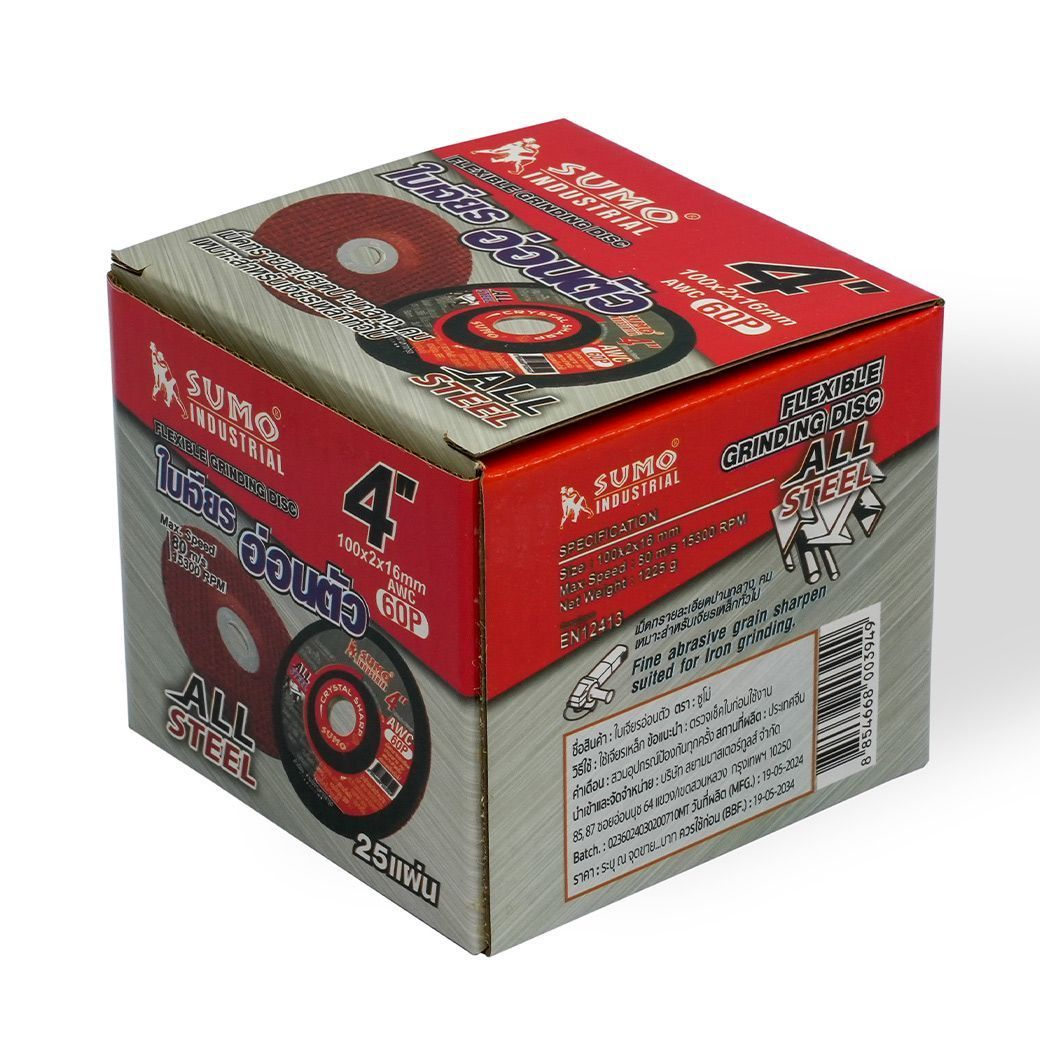
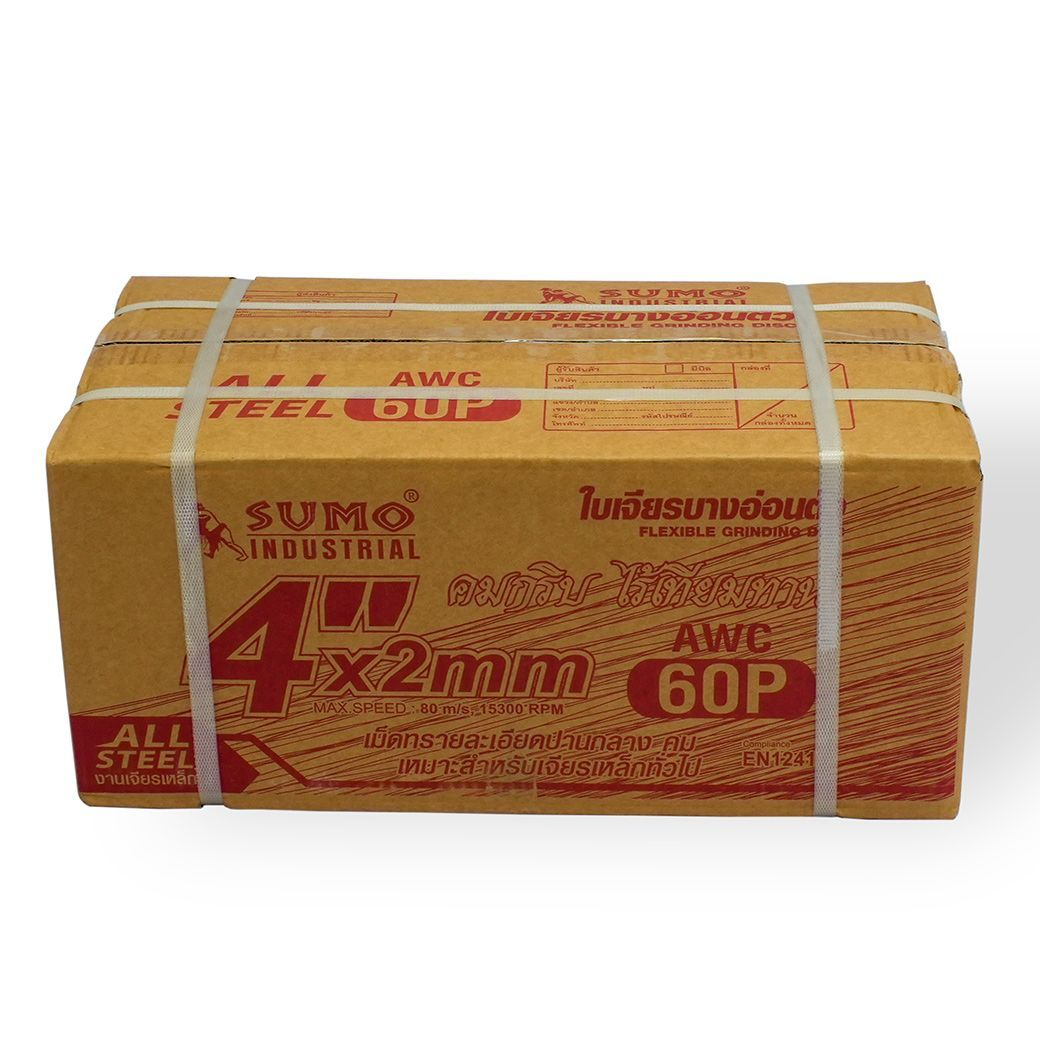
Add checkout functionality and improve cart management
Integrates a checkout process into the shopping cart by adding a checkout function to the useCart hook, which handles empty cart validation and success notifications. Also updates product image imports and references within products.ts and refactors the CartSidebar component to utilize the new checkout functionality.

Replit-Commit-Author: Agent
Replit-Commit-Session-Id: cb5e5b6e-ccb7-4158-9988-082292ac07f4
Replit-Commit-Checkpoint-Type: full_checkpoint
Replit-Commit-Screenshot-Url: https://storage.googleapis.com/screenshot-production-us-central1/c8b55904-69a6-4e6c-8dea-dea76a31d220/cb5e5b6e-ccb7-4158-9988-082292ac07f4/DhasT2W

diff --git a/client/src/data/products.ts b/client/src/data/products.ts
@@ -1,22 +1,28 @@
 // Import generated product images
 // ใบเจียรเหล็ก 4" (100x2mm) AWC60P สีแดง SUMO
-import polishingBladeImg11 from '@/assets/polishBlade11.jpg';
-import polishingBladeImg12 from '@/assets/polishBlade12.jpg';
-import polishingBladeImg13 from '@/assets/polishBlade13.jpg';
-import polishingBladeImg14 from '@/assets/polishBlade14.jpg';
-import polishingBladeImg15 from '@/assets/polishBlade15.jpg';
-import polishingBladeImg16 from '@/assets/polishBlade16.jpg';
-import polishingBladeImg17 from '@/assets/polishBlade17.jpg';
-import polishingBladeImg18 from '@/assets/polishBlade18.jpg';
-import polishingBladeImg19 from '@/assets/polishBlade19.jpg';
-import polishingBladeImg110 from '@/assets/polishBlade110.jpg';
-import polishingBladeImg111 from '@/assets/polishBlade111.jpg';
-import polishingBladeImg112 from '@/assets/polishBlade112.jpg';
-import polishingBladeImg113 from '@/assets/polishBlade113.jpg';
-import polishingBladeImg114 from '@/assets/polishBlade114.jpg';
+import polishingBlade11back from '@/assets/polishBlade11.jpg';
+import polishingBlade12front from '@/assets/polishBlade12.jpg';
+import polishingBlade13box from '@/assets/polishBlade13.jpg';
+import polishingBlade14parcel from '@/assets/polishBlade14.jpg';
 
 // ใบเจียร 4” (100x2.0mm) Ceragrain60P SUMO สีเขียว
-import polishingBladeImg21 from '@/assets/cutting-blade.jpg';
+import polishingBlade21front from '@/assets/polishBlade21.jpg';
+import polishingBlade22back from '@/assets/polishBlade22.jpg';
+import polishingBlade23box from '@/assets/polishBlade23.jpg';
+import polishingBlade24parcel from '@/assets/polishBlade24.jpg';
+
+// ใบเจียร 4” (100x4mm) หนา SUMO สีแดง
+import polishingBlade31front from '@/assets/polishBlade31.jpg';
+import polishingBlade32back from '@/assets/polishBlade32.jpg';
+import polishingBlade33box from '@/assets/polishBlade33.jpg';
+import polishingBlade34parcel from '@/assets/polishBlade34.jpg';
+
+// ใบเจียร 4” (100x4mm) หนา SUMO สีเขียว
+import polishingBlade41front from '@/assets/polishBlade41.jpg';
+import polishingBlade42back from '@/assets/polishBlade42.jpg';
+import polishingBlade43box from '@/assets/polishBlade43.jpg';
+import polishingBlade44parcel from '@/assets/polishBlade44.jpg';
+
 import weldingTorchImg from '@/assets/welding-torch.jpg';
 import safetyHelmetImg from '@/assets/safety-helmet.jpg';
 import metalCutterImg from '@/assets/metal-cutter.jpg';
@@ -69,21 +75,12 @@ export const products: Product[] = [
     id: "1",
     name: 'ใบเจียรเหล็ก 4" (100x2mm) AWC60P สีแดง SUMO',
     price: 15,
-    image: polishingBladeImg11,
+    image: polishingBlade12front,
     images: [
-      polishingBladeImg11,
-      polishingBladeImg12,
-      polishingBladeImg13,
-      polishingBladeImg14,
-      polishingBladeImg15,
-      polishingBladeImg16,
-      polishingBladeImg17,
-      polishingBladeImg18,
-      polishingBladeImg19,
-      polishingBladeImg110,
-      polishingBladeImg111,
-      polishingBladeImg112,
-      polishingBladeImg113
+      polishingBlade12front,
+      polishingBlade11back,
+      polishingBlade13box,
+      polishingBlade14parcel,
     ],
     category: "งานตัดและเจียร",
     subcategory: "งานเจียร",
@@ -93,30 +90,48 @@ export const products: Product[] = [
     id: "2",
     name: "ใบเจียร 4” (100x2.0mm) Ceragrain60P SUMO สีเขียว",
     price: 16,
-    image: polishingBladeImg21,
+    image: polishingBlade21front,
+    images: [
+      polishingBlade21front,
+      polishingBlade22back,
+      polishingBlade23box,
+      polishingBlade24parcel
+    ],
     category: "งานตัดและเจียร",
-    subcategory: "งานขัด",
+    subcategory: "งานเจียร",
     description: "ใบขัดแม่นยำสำหรับงานขัดละเอียด"
   },
-  /* {
+  {
     id: "3",
-    name: "ใบขัดผิวหนักหน่วง",
-    price: 1100,
-    image: cuttingBladeImg,
-    category: "งานตัดและขัด",
-    subcategory: "งานขัดผิว",
+    name: "ใบเจียร 4” (100x4mm) หนา SUMO สีแดง",
+    price: 14,
+    image: polishingBlade31front,
+    images: [
+      polishingBlade31front,
+      polishingBlade32back,
+      polishingBlade33box,
+      polishingBlade34parcel
+    ],
+    category: "งานตัดและเจียร",
+    subcategory: "งานเจียร",
     description: "ใบขัดผิวทนทานสำหรับงานหนัก"
   },
   {
     id: "4",
-    name: "ใบตัดเพชร",
-    price: 2800,
-    image: diamondBladeImg,
-    category: "งานตัดและขัด",
-    subcategory: "งานตัด",
+    name: "ใบเจียร 4” (100x4mm) หนา SUMO สีเขียว",
+    price: 14,
+    image: polishingBlade41front,
+    images: [
+      polishingBlade41front,
+      polishingBlade42back,
+      polishingBlade43box,
+      polishingBlade44parcel
+    ],
+    category: "งานตัดและเจียร",
+    subcategory: "งานเจียร",
     description: "ใบตัดเพชรพรีเมียมคุณภาพสูง"
   },
-  {
+  /* {
     id: "5",
     name: "ชุดแปรงลวดเหล็ก",
     price: 450,

diff --git a/client/src/hooks/useCart.ts b/client/src/hooks/useCart.ts
@@ -1,5 +1,6 @@
 import { useState, useEffect } from 'react';
 import { CartItem, Product } from '@/data/products';
+import { toast } from '@/hooks/use-toast';
 
 const CART_STORAGE_KEY = 'power-tools-cart';
 
@@ -70,6 +71,25 @@ export const useCart = () => {
     return cartItems.reduce((count, item) => count + item.quantity, 0);
   };
 
+  const checkout = () => {
+    if (cartItems.length === 0) {
+      toast({
+        title: "ตะกร้าสินค้าว่างเปล่า",
+        description: "กรุณาเลือกสินค้าก่อนดำเนินการชำระเงิน",
+        variant: "destructive"
+      });
+      return false;
+    }
+
+    toast({
+      title: "ชำระเงินสำเร็จ",
+      description: "ขอบคุณสำหรับการสั่งซื้อ! เราจะดำเนินการจัดส่งให้คุณ"
+    });
+    
+    clearCart();
+    return true;
+  };
+
   return {
     cartItems,
     addToCart,
@@ -77,6 +97,7 @@ export const useCart = () => {
     updateQuantity,
     clearCart,
     getCartTotal,
-    getCartItemsCount
+    getCartItemsCount,
+    checkout
   };
 };

diff --git a/client/src/components/CartSidebar.tsx b/client/src/components/CartSidebar.tsx
@@ -11,13 +11,16 @@ interface CartSidebarProps {
 }
 
 export const CartSidebar = ({ isOpen, onClose, onCheckout }: CartSidebarProps) => {
-  const { cartItems, updateQuantity, removeFromCart, getCartTotal } = useCart();
+  const { cartItems, updateQuantity, removeFromCart, getCartTotal, checkout } = useCart();
 
   if (!isOpen) return null;
 
   const handleCheckout = () => {
-    onCheckout();
-    onClose();
+    const success = checkout();
+    if (success) {
+      onCheckout();
+      onClose();
+    }
   };
 
   return (
